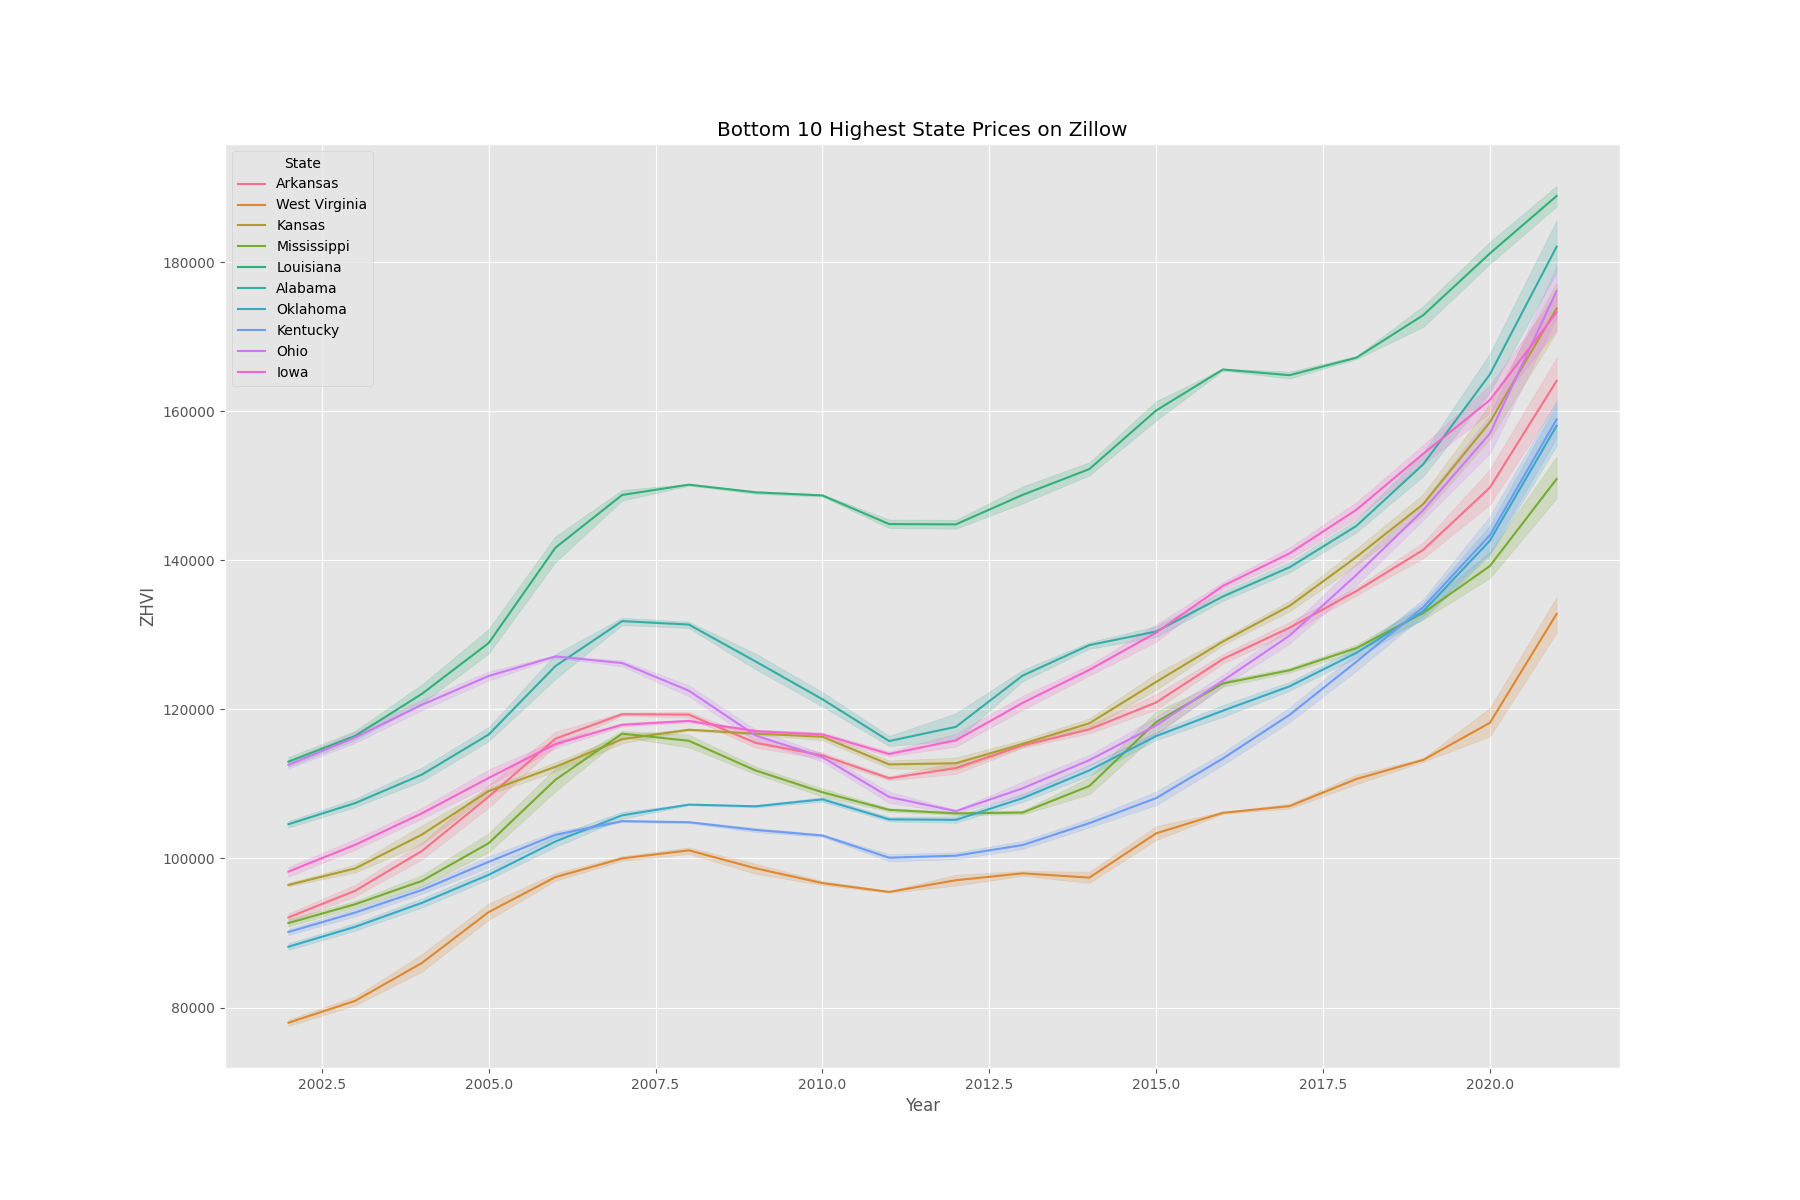
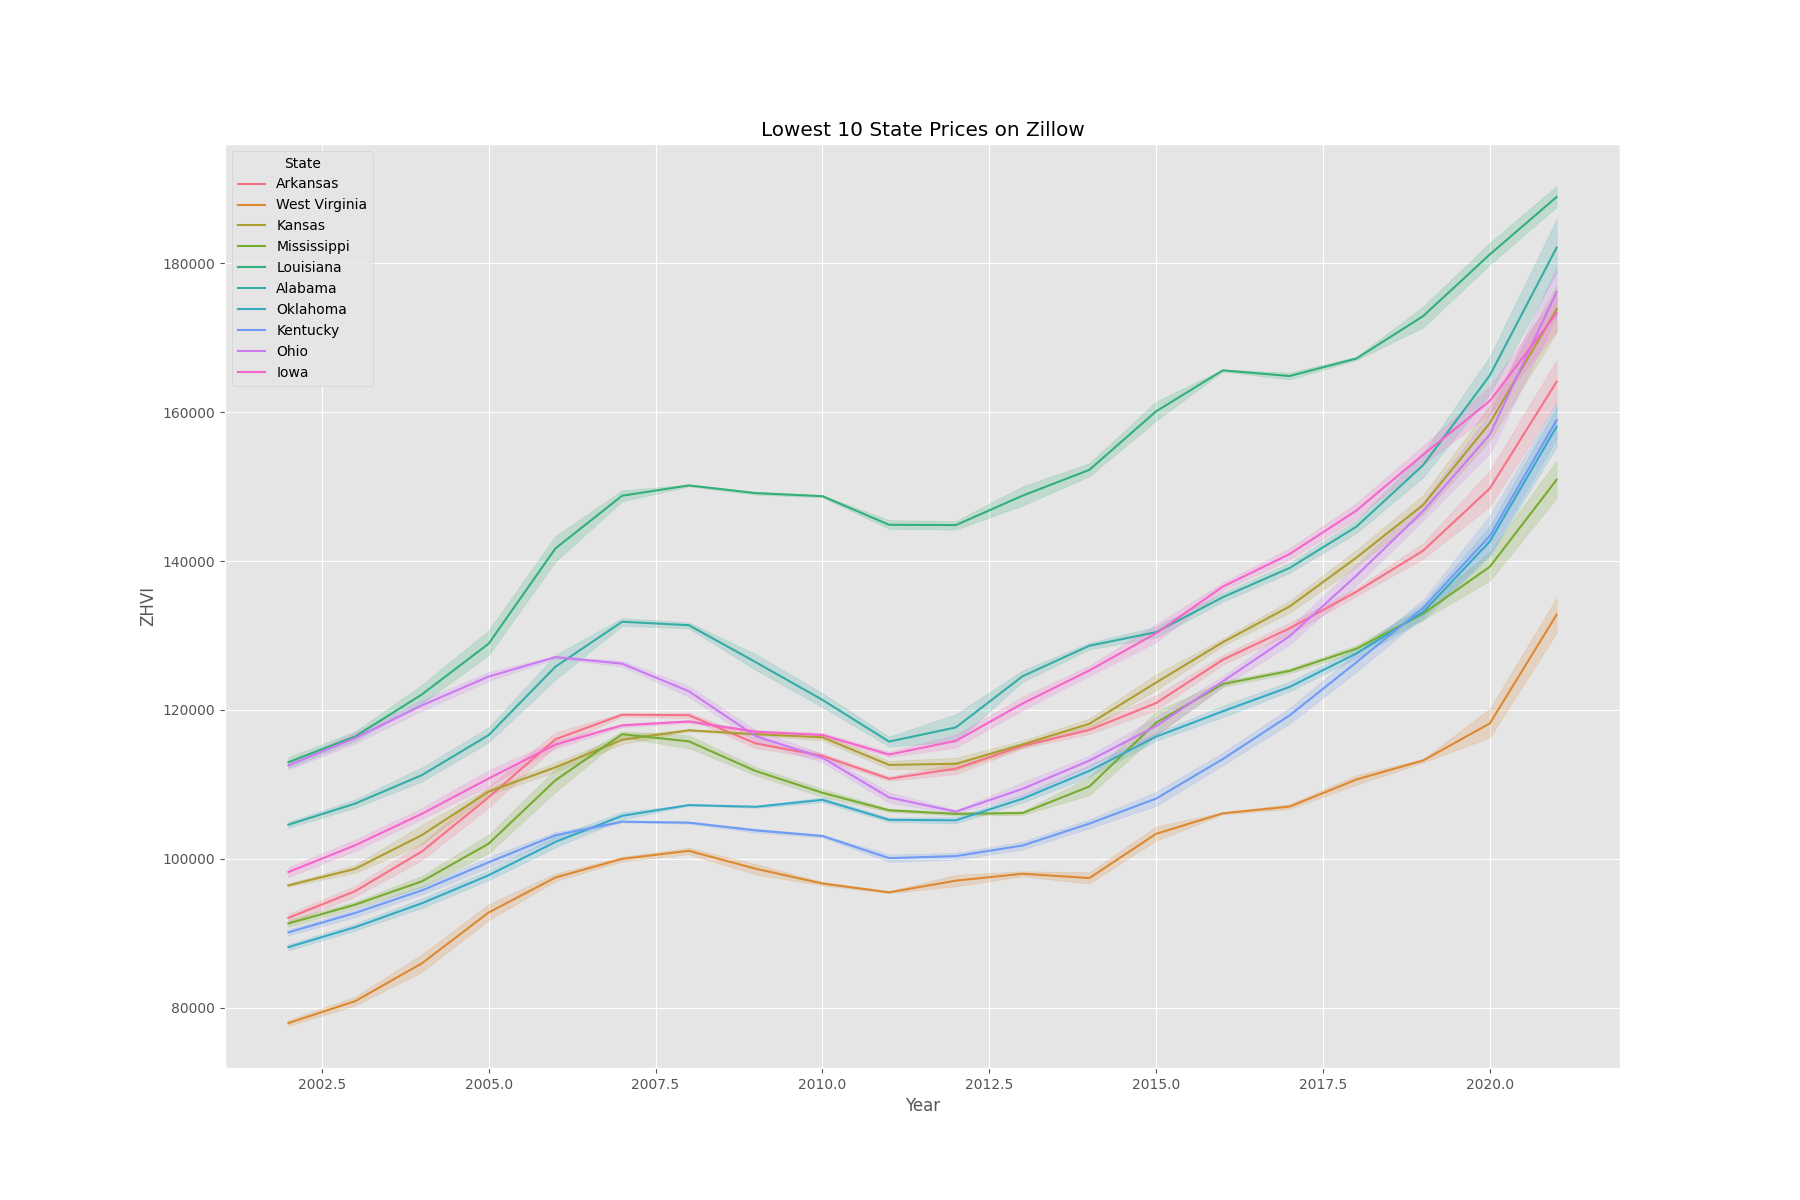
New Changes

diff --git a/data_exploration.py b/data_exploration.py
@@ -44,11 +44,11 @@ plt.style.use("ggplot")
 # plt.savefig("Visuals/Top_10_States_ZVHI.png")
 # plt.show()
 
-# fig = plt.figure(figsize = (18, 12))
-# sns.lineplot(data = filtered_bottom_10, x = 'Year', y = 'ZHVI', hue = 'State')
-# plt.title("Bottom 10 Highest State Prices on Zillow")
-# plt.savefig("Visuals/Bottom_10_States_ZVHI.png")
-# plt.show()
+fig = plt.figure(figsize = (18, 12))
+sns.lineplot(data = filtered_bottom_10, x = 'Year', y = 'ZHVI', hue = 'State')
+plt.title("Lowest 10 State Prices on Zillow")
+plt.savefig("Visuals/Bottom_10_States_ZVHI.png")
+plt.show()
 
 # plt.clf()
 # fig = plt.figure(figsize = (18, 12))
@@ -84,7 +84,12 @@ stats = pd.DataFrame({"State" : states,"Minimum" : minimums, "Maximum" : maximum
 
 order_stats = stats[['State', 'Percent Increase']].sort_values(by = "Percent Increase", ascending = False).reset_index(drop = True)
 
-print(order_stats)
+head_order = order_stats.head(5)
+tail_order = order_stats.tail(5)
+
+merged_orders = pd.concat([head_order, tail_order], axis = 0)
+
+print(merged_orders)
 
 plt.figure(figsize = (14,8))
 sns.barplot(order_stats, y = "Percent Increase", x = "State")

diff --git a/clustering.py b/clustering.py
@@ -21,7 +21,15 @@ cluster_3.fit(just_data)
 
 pca_data['cluster'] = cluster_3.labels_
 
-p1 = sns.scatterplot(x = "Dimension1", y = "Dimension2", data = pca_data, s = 65, hue = "cluster")
-plt.title("KMeans Clustered Plot of PCA Data")
-plt.savefig("Visuals/pca_clustered_plots.png")
-plt.show()
+# p1 = sns.scatterplot(x = "Dimension1", y = "Dimension2", data = pca_data, s = 65, hue = "cluster")
+# plt.title("KMeans Clustered Plot of PCA Data")
+# plt.savefig("Visuals/pca_clustered_plots.png")
+# plt.show()
+
+zero_cluster = pca_data[pca_data['cluster'] == 0] #Biggest cluster, seems to be homes that aren't affected as much
+first_cluster = pca_data[pca_data['cluster'] == 1] # Most expensive states
+second_cluster = pca_data[pca_data['cluster'] == 2] # Middle of the road states
+
+print(zero_cluster['States'])
+print(first_cluster['States'])
+print(second_cluster['States'])

diff --git a/CPI_visual.py b/CPI_visual.py
@@ -1,0 +1,13 @@
+import pandas as pd
+import seaborn as sns
+import matplotlib.pyplot as plt
+
+data = pd.read_csv("data/clean_CPI.csv")
+
+restricted_data = data[(data['Year'] >= 2002) & (data['Year'] <= 2021)].reset_index(drop = True)
+
+fig = plt.figure(figsize = (18, 12))
+sns.lineplot(data = restricted_data, x = 'Year', y = 'CPI')
+plt.title("CPI over 2002 - 2021")
+plt.savefig("Visuals/CPI_Over_Time.png")
+plt.show()

diff --git a/README.md b/README.md
@@ -27,6 +27,7 @@ So I found that dummying the data didn't do anything, probably because the value
 - Looked into SVM slightly, but didn't spend too much time on it. 
 - Now done PCA, most of the variation was within Dimension 1, Dimension 2 offers variability but because it doesn't explain much variance I pay little attention to it. 
 - Plotted percent increase in ZHVI values across the timeline, to get another visual on which states are at the high and bottom of this spectrum. 
+- Included a CPI plot over time to see how those values have increased within our time frame.
 
 ### Doing Currently
-- Look into clustering of the PCA data, can also try to do GMM between CPI and each state
+- Updating the report with what I have so far. 
